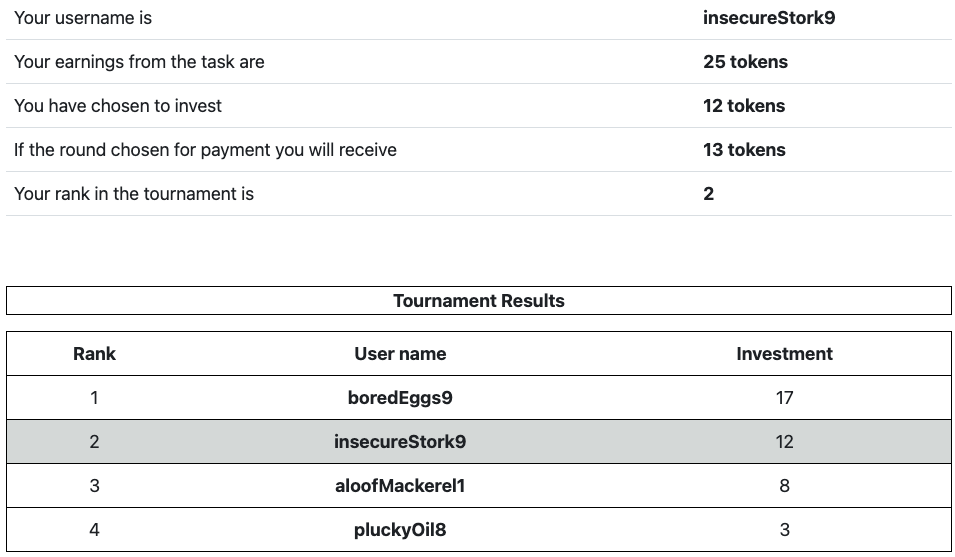
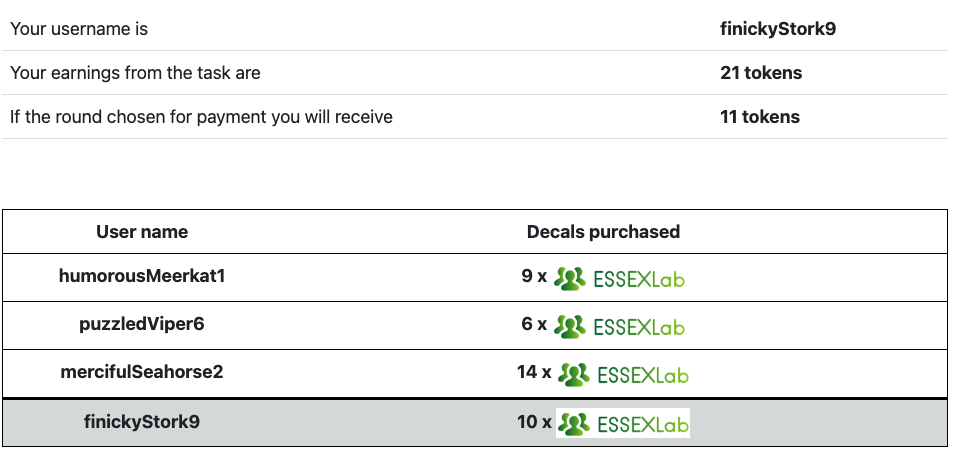
changing instructions

diff --git a/CC_T0/Instructions.html b/CC_T0/Instructions.html
@@ -13,9 +13,8 @@ Welcome to the <b>ESSEXLab!</b> You have earned <b>£5 for showing up on time</b
 
 <ul>
 	<li> You will be playing 15 rounds following the rules explained below. </li>
-	<li>	One round is chosen for payment at random. </li>
 	<li>	You can earn up to 30 pounds depending on the round chosen for payment. </li>
-	<li>	Before the experiment begins you will choose a user name that will be your virtual identity throughout the experiment. </li>
+	<li>	Before the experiment begins you will choose a user name that will be your <b>virtual identity</b> throughout the experiment. </li>
 </ul>
 
 
@@ -23,56 +22,45 @@ Welcome to the <b>ESSEXLab!</b> You have earned <b>£5 for showing up on time</b
 
 <h3> Structure of a Round </h3>
 
-<ul>
-	<li>	You will be <b>randomly assigned to a group of four participants</b> each round. </li>
-	<li>	You and the other group members will </b>compete in a tournament</b>. </li>
-	<li>	Each round of the experiment consists of three stages: 	</li>
-	<ol>
-		<li>	Effort Stage </li>
-		<li>	Investment Stage </li>
-		<li>	Tournament Outcome Stage </li>
-	</ol>
-	<li>	We now describe the three stages in more detail. </li>
-</ul>
+You will be randomly assigned to a group of four participants, which will remain the same for the entire experiment. Each round consists of three stages, which are detailed below.
 
-<h3> Effort Stage </h3>
-
-<ul>
-	<li>	You will see a <b>set of sliders</b> on your screen. </li>
-	</li>	You can adjust each slider to any position between 0 and 100 by pressing the slider with your mouse and dragging it to the desired position. </li>
-	<li>	You have <b>one minute</b> to adjust <b>as many sliders as possible</b> to the target position of 50. </li>
-	<li>	You will receive <b>one token for each correctly adjusted slider</b>. </li>
-</ul>
-
-
-<h3> Investment Stage </h3>
-
-<ul>
-	<li>	You decide how many of your previously earned tokens to keep and how many of your tokens to <b>invest in training</b>. </li>
-	<li>	Training determines your performance in the tournament. </li>
-	<li>	Each token invested in training increases your tournament score by one point. </li>
-	<li>	For example, if you <b>received 21 tokens from the task</b> and <b>invested 10 tokens</b> in training, then your tournament <b>score is 10</b> and you will be <b>paid 11 tokens </b> if the round is chosen for payment. </li>
-</ul>
-
-<h3> Tournament Outcome Stage </h3>
-
-<ul>
-	<li>	Once everyone has concluded with their investment you will see <b>the rank</b> you achieved in the tournament along with <b>usernames, investments, and ranks for other group members</b> as on the screenshot below.
 <br>
-<img class="pic-center" src="{{ static 'pictures/CardinalVisibility.png' }}"/>
-	</li>
+<br>
 
+<h3> Stage 1. </h3>
+
+<ul>
+	<li>	You will see a set of sliders on your screen. </li>
+	</li>	You can adjust each slider to any position between 0 and 100 by clicking and dragging with your mouse. </li>
+	<li>	You have one minute to adjust as many sliders as possible to the target position of 50. </li>
+	<li>	You will earn one token for each correctly adjusted slider. </li>
 </ul>
-<h3> Timeline of an Experimental Round </h3>
 
-<ol>
-	<li>	At the beginning of each round, you are randomly assigned to <b> a group of four participants </b> who will compete with each other in a tournament. </li>
-	<li>	In the Effort Stage, you have <b> one minute to adjust as many sliders as possible </b> to the target position of 50, and you earn <b> one token for each correctly adjusted slider </b>. </li>
-	<li>	In the Investment Stage, you decide how many of your earned tokens to keep and how many tokens to invest in training.  <b> Training determines your performance in the tournament </b>.  Each token invested increases your tournament score by one point. </li>
-	<li>	In the Tournament Outcome Stage, your tournament score will be <b>compared</b> to the <b> scores of other group members </b>.  Your ranking will be shown, from 1 (highest score) to 4 (lowest score). </li>
-</ol>
 
-Then you proceed to the next round. At the end of the experiment, one round is randomly selected for payment. <b>You receive 50p for each token you have at the end of that round</b>.
+<h3> Stage 2. </h3>
+
+
+<ul>
+	<li>	You can purchase digital decals at a cost of one token per decal:
+<img  width="15%" src="{{ static 'pictures/decal.png' }}"/>
+ </li>
+	<li>	Decals have no monetary value and will not affect your final payment. </li>
+	<li>	Each token invested in training increases your tournament score by one point. </li>
+	<li>	For example, if you earn 21 tokens from Stage 1 and choose to purchase 10 decals, you will be paid 11 tokens if that round is selected for payment.
+ </li>
+</ul>
+
+<h3> Stage 3. </h3>
+
+<ul>
+	<li> After all participants have made their purchasing decisions, you will proceed to the outcome stage. </li>
+	<li> You will see a table displaying your decals purchase decisions alongside those of your group members. </li>
+<br>
+<img class="pic-center" width="80%" src="{{ static 'pictures/CardinalVisibility.png' }}"/>
+	</li>
+	<li>Other participants will also see your consumption decision. </li>
+	<li>You will then move on to the next round. </li>
+</ul>
 
 <br>
 <br>
@@ -80,9 +68,14 @@ Then you proceed to the next round. At the end of the experiment, one round is r
 <h3> Payment: </h3>
 
 <ul>
-	<li>	Once the experiment is finished one of the rounds would be randomly selected for payment. </li>
-	<li>	All rounds are equally likely to be selected thus please take them seriously. </li>
-	<li>	All payments are conducted electronically using the Tremendous system. </li>
+	<li>	Once the experiment concludes, one round will be randomly selected for payment. </li>
+	<li>	Each round has an equal chance of being chosen, so please take them seriously, as a significant amount of money is at stake. </li>
+	<li>	At the end of the experiment, tokens will be converted to pounds at the following exchange rate:
+		<br>
+	<p align="center">
+		<b>1 token = 50 pence</b>
+	</p>
+ </li>
 </ul>
 
 <style>
@@ -94,7 +87,6 @@ Then you proceed to the next round. At the end of the experiment, one round is r
   display: block;
   margin-left: auto;
   margin-right: auto;
-  width: 80%;
 }
 
 

diff --git a/CC_NoVisibility/Instructions.html b/CC_NoVisibility/Instructions.html
@@ -13,9 +13,8 @@ Welcome to the <b>ESSEXLab!</b> You have earned <b>£5 for showing up on time</b
 
 <ul>
 	<li> You will be playing 15 rounds following the rules explained below. </li>
-	<li>	One round is chosen for payment at random. </li>
 	<li>	You can earn up to 30 pounds depending on the round chosen for payment. </li>
-	<li>	Before the experiment begins you will choose a user name that will be your virtual identity throughout the experiment. </li>
+	<li>	Before the experiment begins you will choose a user name that will be your <b>virtual identity</b> throughout the experiment. </li>
 </ul>
 
 
@@ -23,58 +22,43 @@ Welcome to the <b>ESSEXLab!</b> You have earned <b>£5 for showing up on time</b
 
 <h3> Structure of a Round </h3>
 
-<ul>
-	<li>	You will be <b>randomly assigned to a group of four participants</b> each round. </li>
-	<li>	You and the other group members will </b>compete in a tournament</b>. </li>
-	<li>	Each round of the experiment consists of three stages: 	</li>
-	<ol>
-		<li>	Effort Stage </li>
-		<li>	Investment Stage </li>
-		<li>	Tournament Outcome Stage </li>
-	</ol>
-	<li>	We now describe the three stages in more detail. </li>
-</ul>
+Each round consists of three stages, which are detailed below.
 
-<h3> Effort Stage </h3>
-
-<ul>
-	<li>	You will see a <b>set of sliders</b> on your screen. </li>
-	</li>	You can adjust each slider to any position between 0 and 100 by pressing the slider with your mouse and dragging it to the desired position. </li>
-	<li>	You have <b>one minute</b> to adjust <b>as many sliders as possible</b> to the target position of 50. </li>
-	<li>	You will receive <b>one token for each correctly adjusted slider</b>. </li>
-	</li>
-</ul>
-
-
-<h3> Investment Stage </h3>
-
-<ul>
-	<li>	You decide how many of your previously earned tokens to keep and how many of your tokens to <b>invest in training</b>. </li>
-	<li>	Training determines your performance in the tournament. </li>
-	<li>	Each token invested in training increases your tournament score by one point. </li>
-	<li>	For example, if you <b>received 21 tokens from the task</b> and <b>invested 10 tokens</b> in training, then your tournament <b>score is 10</b> and you will be <b>paid 11 tokens </b> if the round is chosen for payment. </li>
-</ul>
-
-<h3> Tournament Outcome Stage </h3>
-
-<ul>
-	<li>	Once everyone has concluded with their investment you will see <b>the rank</b> you achieved in the tournament as on the screenshot below.
 <br>
-<img class="pic-center" src="{{ static 'pictures/NoVisibility.png' }}"/>
-	</li>
+<br>
 
+<h3> Stage 1. </h3>
 
+<ul>
+	<li>	You will see a set of sliders on your screen. </li>
+	</li>	You can adjust each slider to any position between 0 and 100 by clicking and dragging with your mouse. </li>
+	<li>	You have one minute to adjust as many sliders as possible to the target position of 50. </li>
+	<li>	You will earn one token for each correctly adjusted slider. </li>
 </ul>
-<h3> Timeline of an Experimental Round </h3>
 
-<ol>
-	<li>	At the beginning of each round, you are randomly assigned to <b> a group of four participants </b> who will compete with each other in a tournament. </li>
-	<li>	In the Effort Stage, you have <b> one minute to adjust as many sliders as possible </b> to the target position of 50, and you earn <b> one token for each correctly adjusted slider </b>. </li>
-	<li>	In the Investment Stage, you decide how many of your earned tokens to keep and how many tokens to invest in training.  <b> Training determines your performance in the tournament </b>.  Each token invested increases your tournament score by one point. </li>
-	<li>	In the Tournament Outcome Stage, your tournament score will be <b>compared</b> to the <b> scores of other group members </b>.  Your ranking will be shown, from 1 (highest score) to 4 (lowest score). </li>
-</ol>
 
-Then you proceed to the next round. At the end of the experiment, one round is randomly selected for payment. <b>You receive 50p for each token you have at the end of that round</b>.
+<h3> Stage 2. </h3>
+
+
+<ul>
+	<li>	You can purchase digital decals at a cost of one token per decal:
+<img  width="15%" src="{{ static 'pictures/decal.png' }}"/>
+ </li>
+	<li>	Decals have no monetary value and will not affect your final payment. </li>
+	<li>	For example, if you earn 21 tokens from Stage 1 and choose to purchase 10 decals, you will be paid 11 tokens if that round is selected for payment.
+ </li>
+</ul>
+
+<h3> Stage 3. </h3>
+
+<ul>
+	<li> After all participants have made their purchasing decisions, you will proceed to the outcome stage. </li>
+	<li> You will see a table displaying your decals purchase decisions alongside those of three other participants. </li>
+<br>
+<img class="pic-center" width="80%" src="{{ static 'pictures/NoVisibility.png' }}"/>
+	</li>
+	<li>You will then move on to the next round. </li>
+</ul>
 
 <br>
 <br>
@@ -82,9 +66,14 @@ Then you proceed to the next round. At the end of the experiment, one round is r
 <h3> Payment: </h3>
 
 <ul>
-	<li>	Once the experiment is finished one of the rounds would be randomly selected for payment. </li>
-	<li>	All rounds are equally likely to be selected thus please take them seriously. </li>
-	<li>	All payments are conducted electronically using the Tremendous system. </li>
+	<li>	Once the experiment concludes, one round will be randomly selected for payment. </li>
+	<li>	Each round has an equal chance of being chosen, so please take them seriously, as a significant amount of money is at stake. </li>
+	<li>	At the end of the experiment, tokens will be converted to pounds at the following exchange rate:
+		<br>
+	<p align="center">
+		<b>1 token = 50 pence</b>
+	</p>
+ </li>
 </ul>
 
 <style>
@@ -96,7 +85,6 @@ Then you proceed to the next round. At the end of the experiment, one round is r
   display: block;
   margin-left: auto;
   margin-right: auto;
-  width: 80%;
 }
 
 
